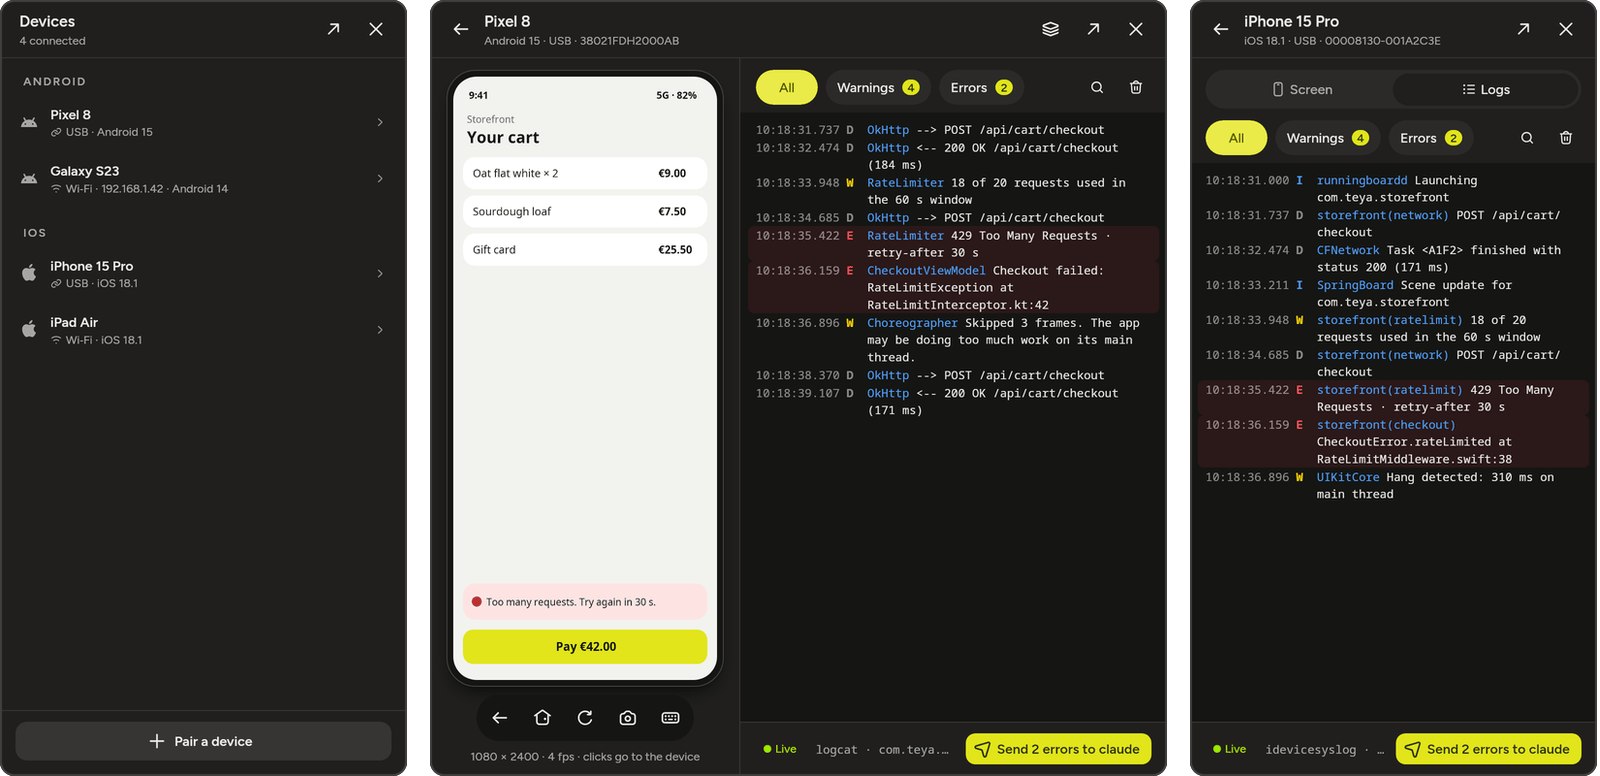
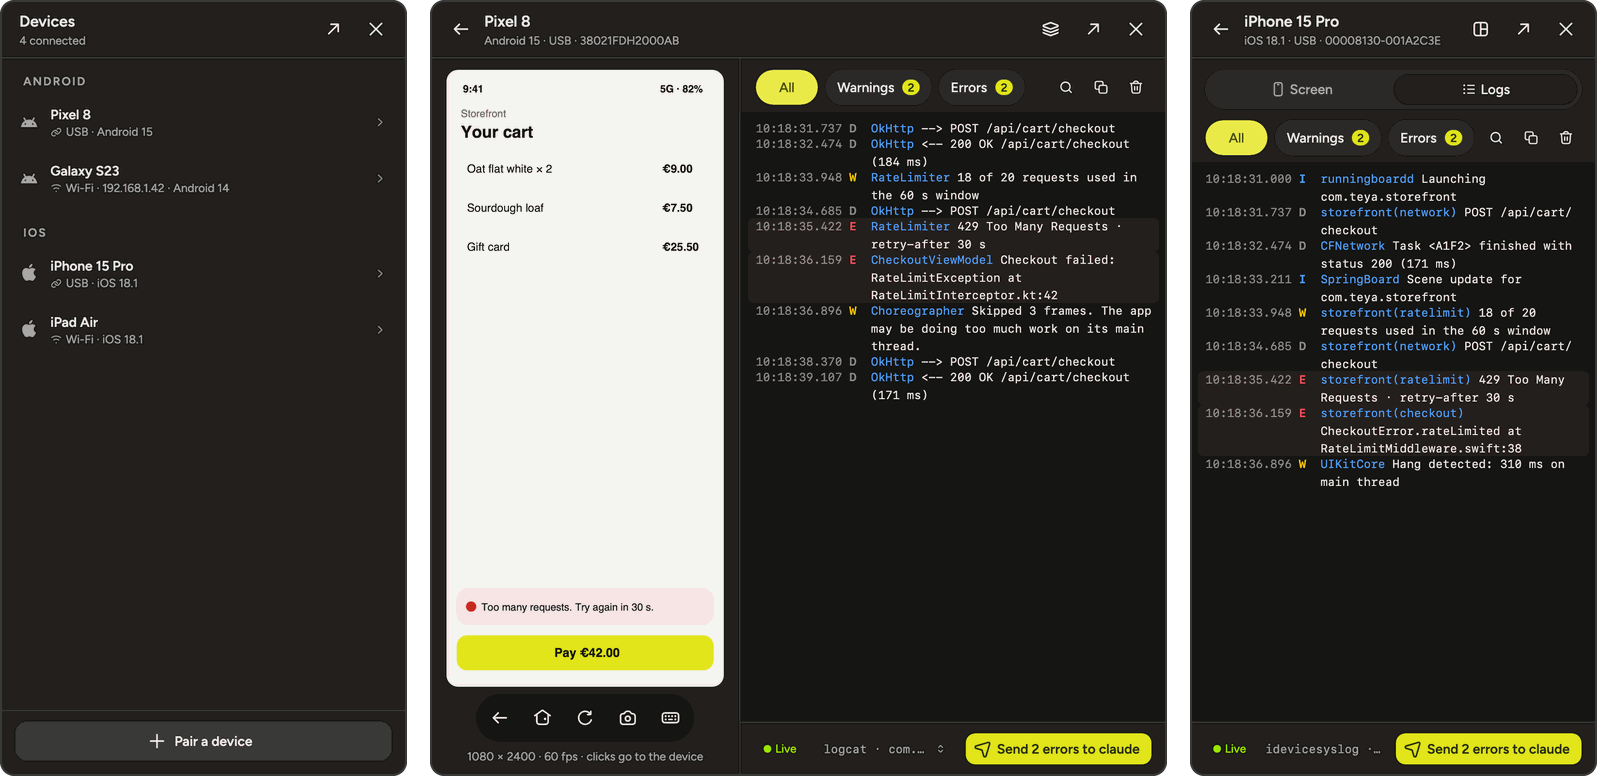
Show more of the app in the README
Most of what the README mentions now has a picture. Sound files join the
previews grid as a wide row with both waveforms. The phone section gets
a second strip after the Devices panel: picking the apps the logs come
from, then pairing a phone in three steps. The little things grow to
nine tiles with the Sounds page, the diff's branch picker and the
language page drawn in German; the two bullets they replace are gone.

The showcase's Android phone now reports 60 fps, the rate its video can
reach, so the Devices screenshot no longer says 4 fps; the iPhone keeps
a realistic 4. The settings screenshot is rendered again with its Sounds
row, and the close-worktree one gets the rounded frame the others have.
The new images come from the showcase renders, cropped and framed the
same way.

Claude-Session: https://claude.ai/code/session_01BE915oRtM7d5NZtiftNvCs

diff --git a/workspace/impl/src/commonMain/kotlin/dev/lemonadecode/workspace/impl/showcase/WorkspaceShowcase.kt b/workspace/impl/src/commonMain/kotlin/dev/lemonadecode/workspace/impl/showcase/WorkspaceShowcase.kt
@@ -392,7 +392,7 @@ private fun sceneFor(showcase: WorkspaceShowcase): Scene = when (showcase) {
     DevicesViewState(step = DevicesStep.Device, deviceId = ShowcaseDevices.iphone.id, tab = DeviceTab.Logs),
     layout = DevicesLayout.Tabs,
     logs = ShowcaseDevices.iosLogs,
-    screen = ShowcaseDevices.screen(1179, 2556),
+    screen = ShowcaseDevices.screen(1179, 2556, framesPerSecond = 4f),
   )
   WorkspaceShowcase.PairPlatform -> devicesScene(DevicesViewState(step = DevicesStep.PairPlatform))
   WorkspaceShowcase.PairMethod -> devicesScene(DevicesViewState(step = DevicesStep.PairMethod), nearby = ShowcaseDevices.nearby)

diff --git a/workspace/impl/src/commonMain/kotlin/dev/lemonadecode/workspace/impl/showcase/ShowcaseDevices.kt b/workspace/impl/src/commonMain/kotlin/dev/lemonadecode/workspace/impl/showcase/ShowcaseDevices.kt
@@ -111,7 +111,7 @@ internal object ShowcaseDevices {
   )
 
   /** The store's cart with its rate-limit error, as the design's phone shows it. */
-  fun screen(width: Int = 1080, height: Int = 2400, framesPerSecond: Float = 4f): DeviceScreen.Frame = DeviceScreen.Frame(ScreenPicture.Encoded(cartScreen(width, height)), width, height, framesPerSecond)
+  fun screen(width: Int = 1080, height: Int = 2400, framesPerSecond: Float = 60f): DeviceScreen.Frame = DeviceScreen.Frame(ScreenPicture.Encoded(cartScreen(width, height)), width, height, framesPerSecond)
 
   private val cache = mutableMapOf<Pair<Int, Int>, ByteArray>()
 

diff --git a/README.md b/README.md
@@ -119,7 +119,7 @@ lost.
 <td width="50%"><img src="docs/images/close-worktree.png" alt="Closing sub-2 asks whether to delete its worktree too, warning that it has uncommitted changes"></td>
 </tr>
 <tr>
-<td align="center"><sub><b>Branch out</b>, and see the folder and branch before they exist</sub></td>
+<td align="center"><sub><b>Branch out</b>, in the same folder or a fresh worktree</sub></td>
 <td align="center"><sub><b>Clean up</b>, and the worktree goes when its session does</sub></td>
 </tr>
 </table>
@@ -147,6 +147,12 @@ model to turn it around.
 <td align="center"><sub><b>Markdown</b>, drawn the way GitHub shows it</sub></td>
 <td align="center"><sub><b>CSV and TSV</b>, as a proper table</sub></td>
 </tr>
+<tr>
+<td colspan="2"><img src="docs/images/grid-preview-sound.png" alt="A sound file before and after, side by side, each with its waveform, a play button and its length, sample rate and channels"></td>
+</tr>
+<tr>
+<td colspan="2" align="center"><sub><b>Sounds</b>, with waveforms on one time scale: WAV, MP3, M4A, Ogg, FLAC, AIFF and more</sub></td>
+</tr>
 </table>
 
 ### Your phone, right beside the code
@@ -155,11 +161,13 @@ Building an app? Turn on the **Mobile** plugin and your Android or iOS device si
 session, screen and logs together. Android screens stream as smooth video, up to 60 frames a
 second, and you can tap, swipe and type on them from your desk.
 
-Pick which apps the logs come from, filter down to the errors, and press **Send errors** to hand
-them to the agent, or snap a screenshot it can look at. Pair a phone over Wi-Fi with a QR code, and
-pop the panel out onto another display when you want the room.
+<img src="docs/images/devices.png" width="100%" alt="The Devices panel three ways: the list of connected phones, a Pixel 8's screen beside its logs at 60 fps, and an iPhone's logs, each with two errors ready to send to claude">
 
-<img src="docs/images/devices.png" width="100%" alt="The Devices panel three ways: the list of connected phones, a Pixel 8's screen beside its logs, and an iPhone's logs, each with two errors ready to send to claude">
+Pick which apps the logs come from, filter down to the errors, and press **Send errors** to hand
+them to the agent, or snap a screenshot it can look at. Pair a phone over Wi-Fi in three quick
+steps, and pop the panel out onto another display when you want the room.
+
+<img src="docs/images/devices-logs-pairing.png" width="100%" alt="Picking two of the phone's apps to show logs from, then pairing a phone: scan a QR code, type a pairing code or pick one from the network, and it's connected">
 
 ### Dark or light
 
@@ -181,6 +189,11 @@ macOS and Windows even the window's title bar follows along.
 <td width="33%" valign="top"><img src="docs/images/touch-rename.png" alt="Renaming a session in place"><br><b>Rename in place</b><br><sub>No dialogs. Type the new name right where the old one was.</sub></td>
 <td width="33%" valign="top"><img src="docs/images/touch-worktree.png" alt="The worktree folder and branch shown before creating them"><br><b>No surprises</b><br><sub>See the folder and branch a worktree will get before it exists.</sub></td>
 </tr>
+<tr>
+<td width="33%" valign="top"><img src="docs/images/touch-sounds.png" alt="Settings › Sounds, switched on, with a Play button for each ding"><br><b>Dings, your way</b><br><sub>Press Play to hear each one, or switch them off.</sub></td>
+<td width="33%" valign="top"><img src="docs/images/touch-branch.png" alt="The branch picker in the diff, listing main, develop, release/2.4, a feature branch and HEAD"><br><b>Any branch</b><br><sub>Compare with any branch, or just what isn't committed yet.</sub></td>
+<td width="33%" valign="top"><img src="docs/images/touch-language.png" alt="The language page in German, listing all six languages with their flags"><br><b>Speaks your language</b><br><sub>English, German, Spanish, French, Portuguese and Slovak.</sub></td>
+</tr>
 </table>
 
 And a few more:
@@ -190,9 +203,6 @@ And a few more:
 - 🔗 **Clickable links.** Ctrl-click (or ⌘-click) any web address in the terminal to open it.
 - ⌨ **Every keyboard works.** Accents, dead keys and input methods type just like anywhere else.
 - 📋 **Paths to go.** Select a file's path right in the diff, or copy it with one click.
-- 🔕 **Quiet when you want it.** Turn the dings off in Settings, or press Play to hear them first.
-- 🌍 **Speaks your language.** English, German, Spanish, French, Portuguese and Slovak. It follows
-  your system, or pick one in Settings.
 
 See everything in the **[feature guide](docs/FEATURES.md)**.
 

diff --git a/docs/FEATURES.md b/docs/FEATURES.md
@@ -277,7 +277,7 @@ Lemonade Code finds them on your `PATH`, in the Android SDK and in Homebrew's fo
 The gear at the top right opens settings: a short list where every item shows its value. Open one to
 change it on its own page; the back arrow or Esc returns to the list.
 
-<img src="images/settings.png" width="100%" alt="The settings list: Appearance, Language, Keep awake, Plugins and Updates">
+<img src="images/settings.png" width="100%" alt="The settings list: Appearance, Language, Keep awake, Sounds, Plugins and Updates">
 
 - **Appearance:** Dark, Light, or follow the System. The window's title bar follows it on macOS and Windows.
 - **Language:** English, Deutsch, Español, Français, Português or Slovenčina, or match the computer's
